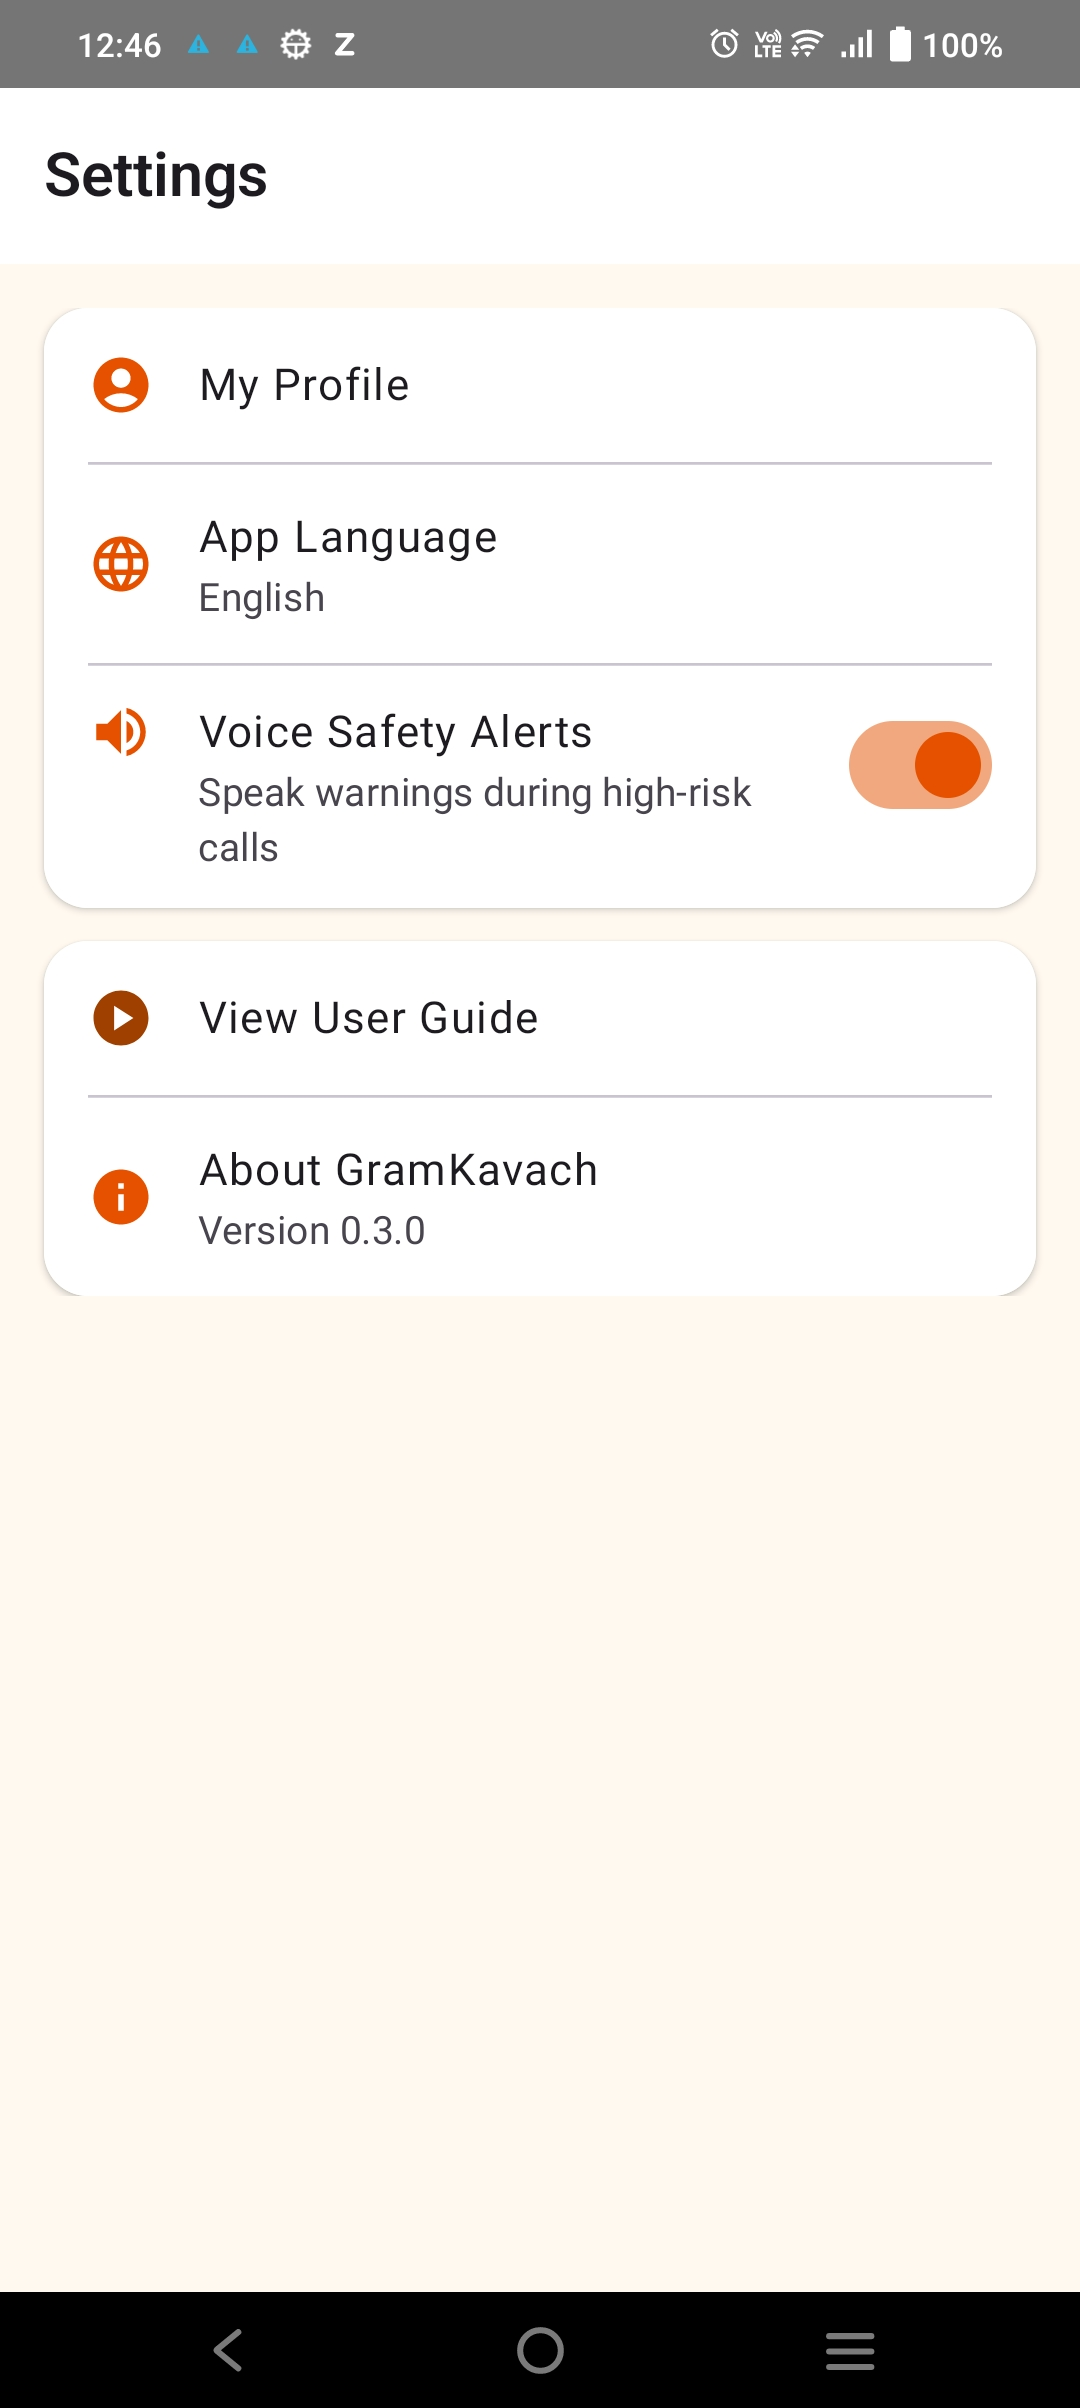
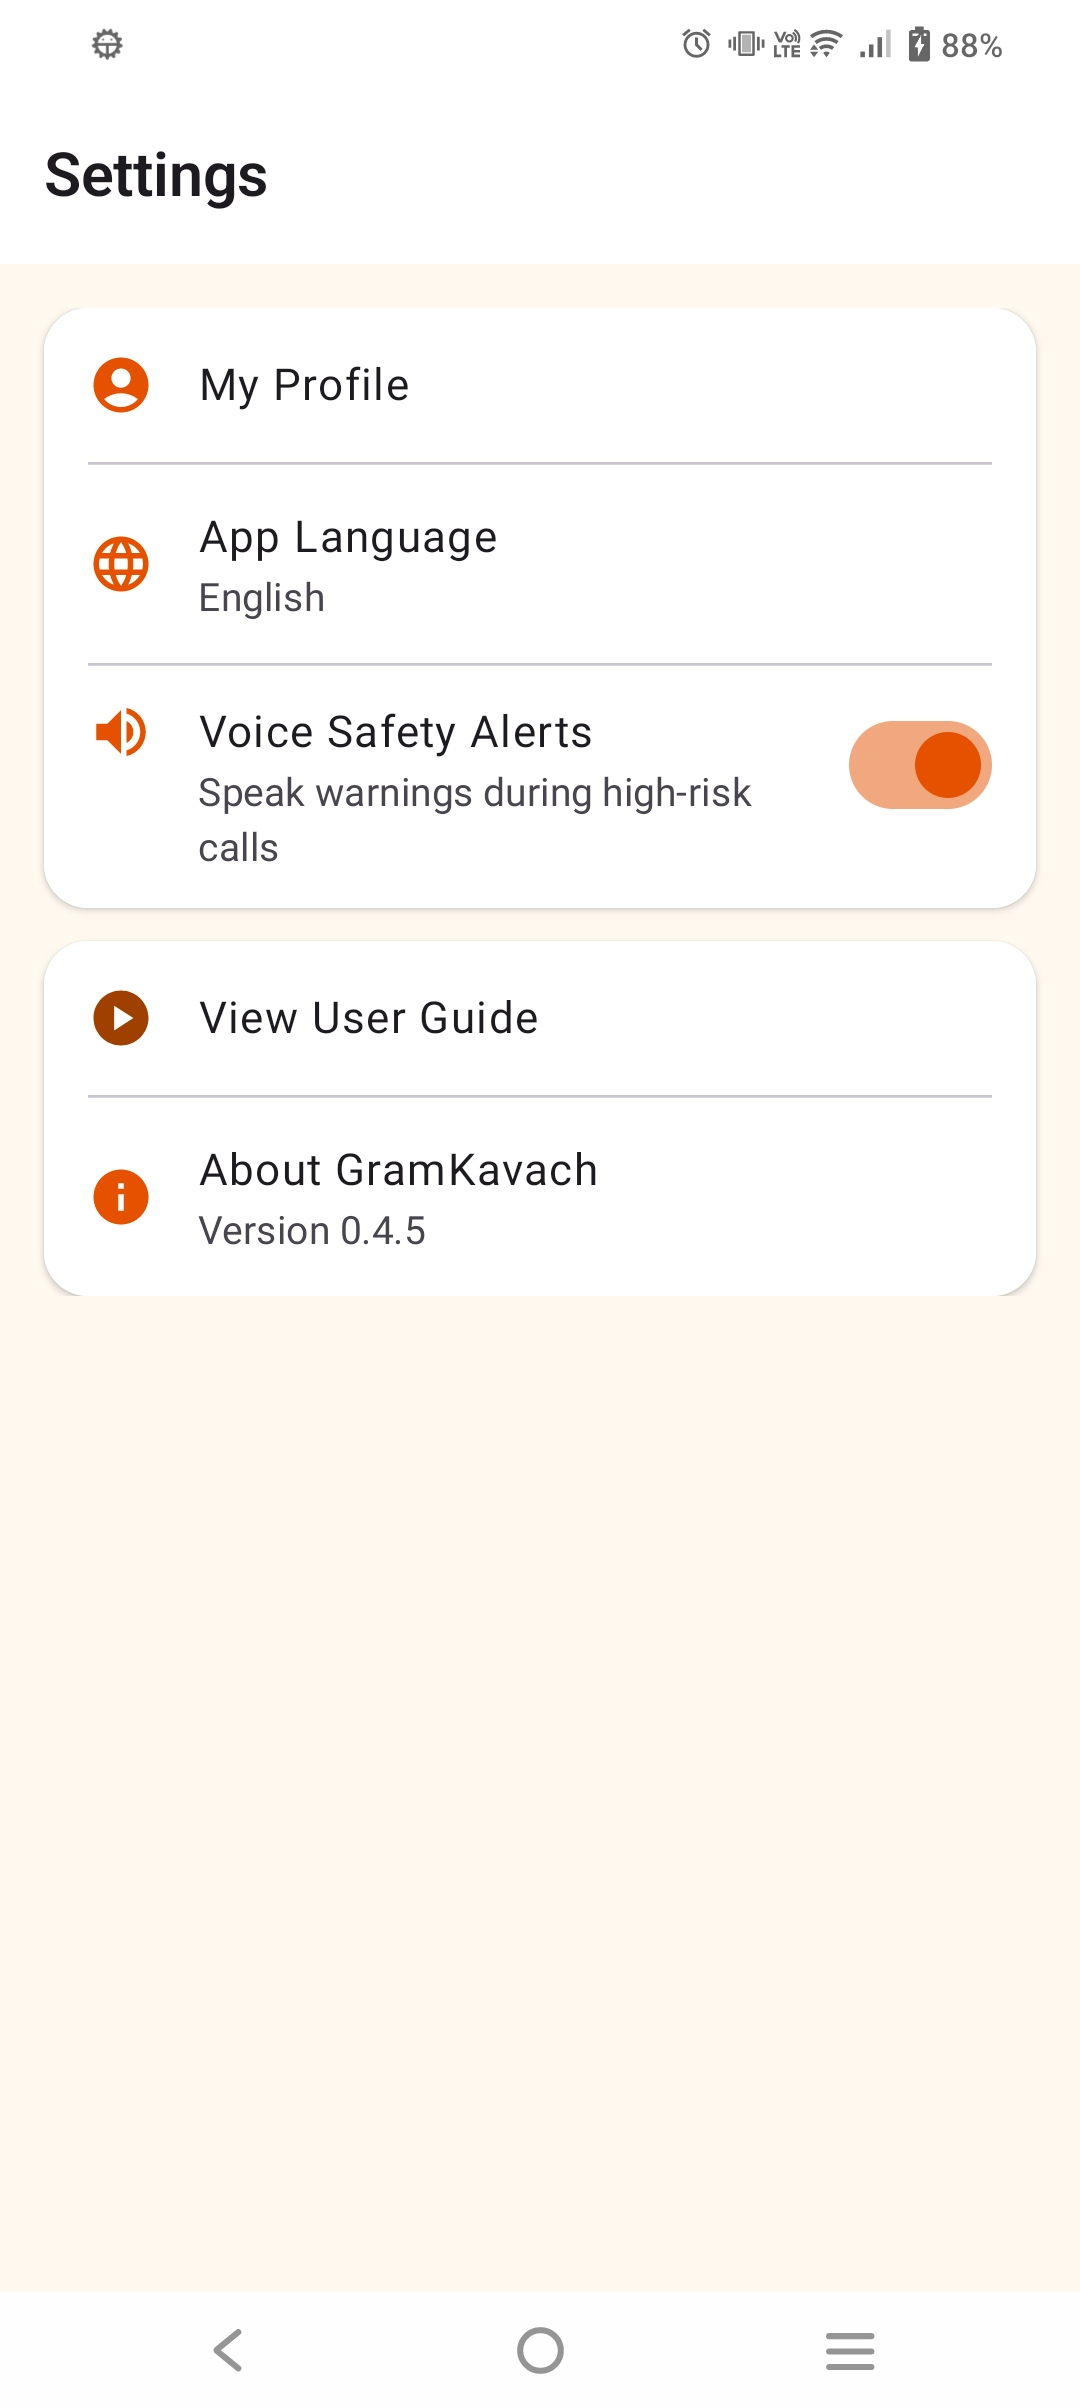
Docs: Update Settings screenshot and add Language Selection to README.

Changed region(s): [[0.0, 0.9344, 1.0, 1.0], [0.0, 0.0, 1.0, 0.0623], [0.3361, 0.4983, 0.3667, 0.5295]]

diff --git a/README.md b/README.md
@@ -268,9 +268,9 @@ Explore the GramKavach interface and dynamic safety alerts:
 | <img src="screenshots/critical-alert.jpg" width="200"/> | <img src="screenshots/moderate-alert.jpg" width="200"/> | <img src="screenshots/alert-history.jpg" width="200"/> |
 
 ### ⚙ Settings & App Info
-| My Profile | Settings | About GramKavach |
-| :--- | :--- | :--- |
-| <img src="screenshots/my-profile.jpg" width="200"/> | <img src="screenshots/settings.jpg" width="200"/> | <img src="screenshots/about-gramkavach.jpg" width="200"/> |
+| My Profile | Settings | Language Selection | About |
+| :--- | :--- | :--- | :--- |
+| <img src="screenshots/my-profile.jpg" width="200"/> | <img src="screenshots/settings.jpg" width="200"/> | <img src="screenshots/languages.jpg" width="200"/> | <img src="screenshots/about-gramkavach.jpg" width="200"/> |
 
 ---
 
